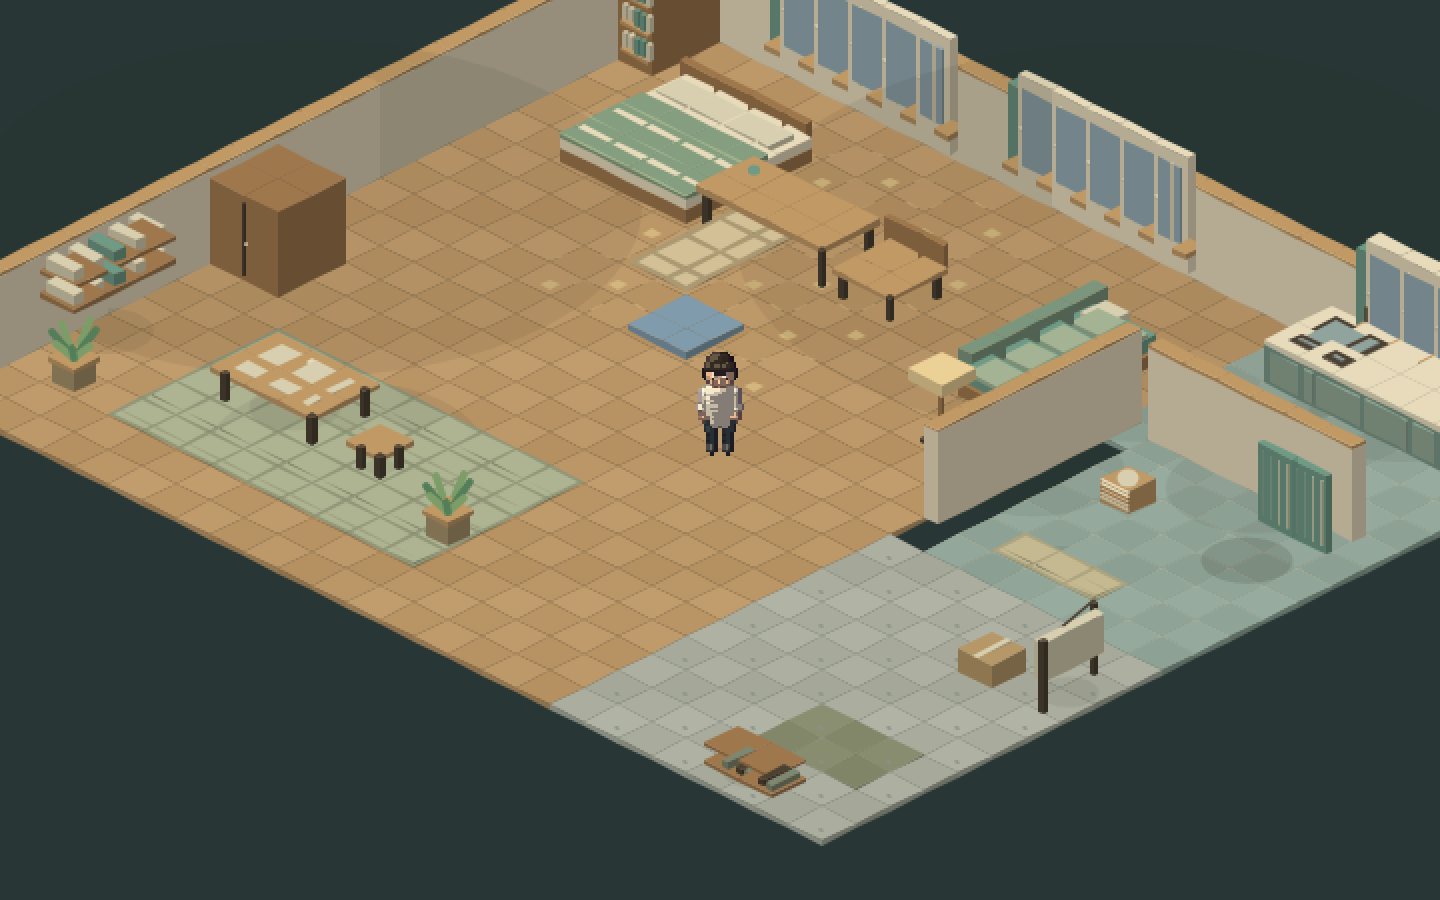
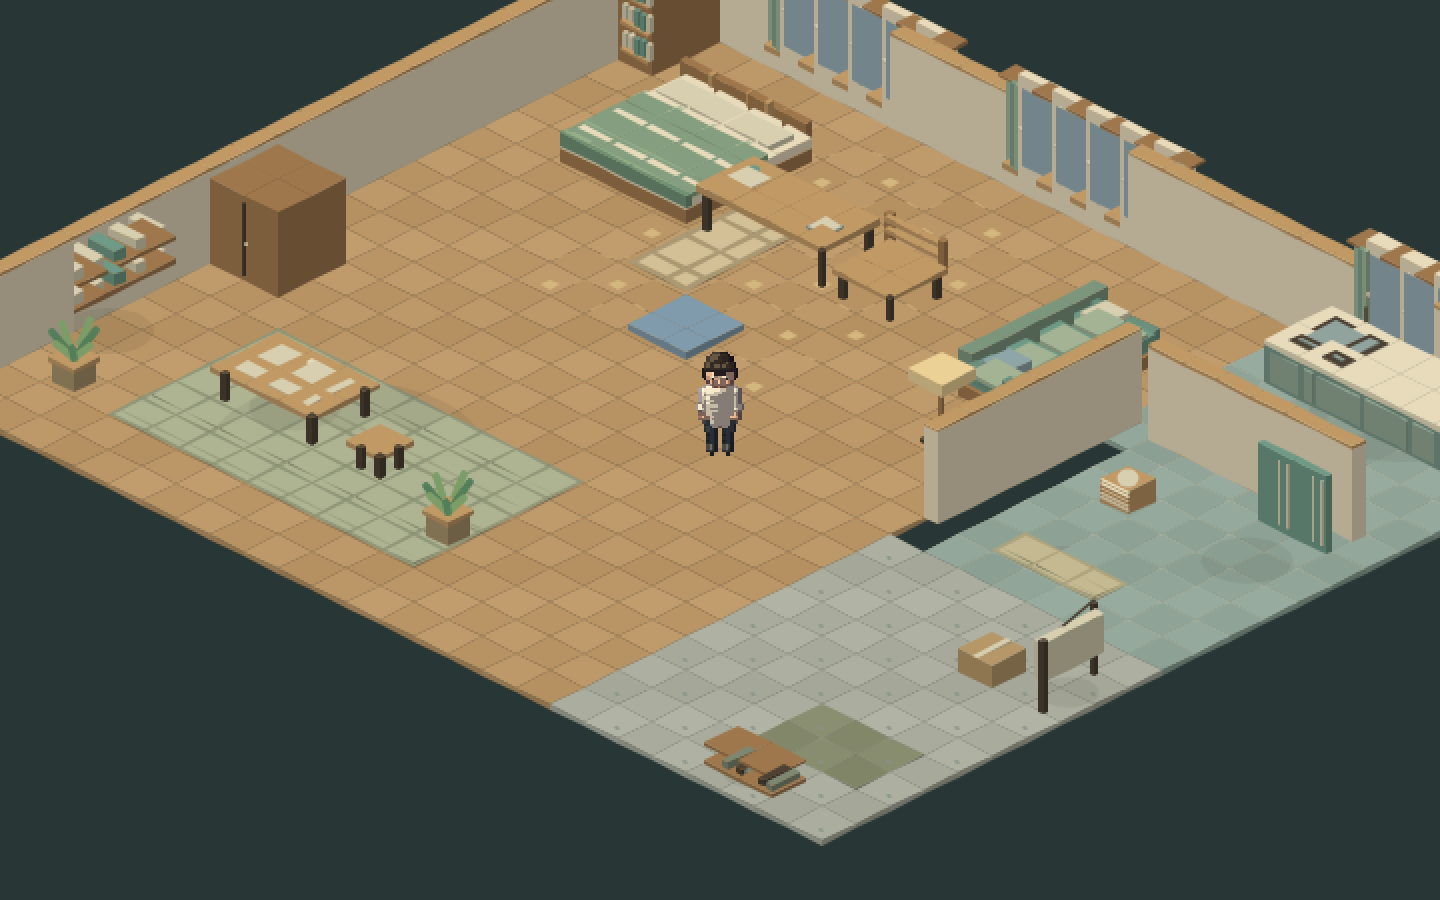
feat(residential): add domestic detail and per-object depth

diff --git a/src/world/art/residential/index.ts b/src/world/art/residential/index.ts
@@ -1,4 +1,4 @@
-import type { DrawMap, WorldRenderView } from '../../render-contract';
+import type { DrawMap, WorldRenderObject, WorldRenderView } from '../../render-contract';
 import type { SceneApi } from '../../../scene/renderer.js';
 import { mapDefinitions } from '../../maps/residential';
 import { furnitureWorldRect } from '../../../features/apartment/world';
@@ -12,6 +12,14 @@ const paleWood: Colour = [193, 153, 101];
 const ink: Colour = [76, 65, 51];
 const jade: Colour = [111, 154, 134];
 const linen: Colour = [215, 207, 176];
+
+function wall(api: ResidentialArtApi, x: number, y: number, width: number, depth: number) {
+  api.box(x, y, 0, x + width, y + depth, 2.7, cream);
+  api.box(x, y, .04, x + width, y + depth, .18, wood);
+  api.box(x, y, 1, x + width, y + depth, 1.055, [203, 185, 149]);
+  api.box(x, y, 2.7, x + width, y + depth, 2.79, paleWood);
+}
+
 
 export function drawResidentialFloor(api: ResidentialArtApi, mapId: string) {
   const map = mapDefinitions.find(m => m.id === mapId);
@@ -60,15 +68,15 @@ export function drawResidentialProps(api: ResidentialArtApi, mapId: string, laye
     switch (prop.kind) {
       case 'wall':
       case 'partition':
-        box(x, y, 0, endX, endY, 2.7, cream);
-        box(x, y, .05, endX, endY, .18, wood);
-        box(x, y, 2.7, endX, endY, 2.79, paleWood);
+        wall(api, x, y, w, h);
         break;
       case 'sofa':
         box(x, y, .1, endX, endY, .5, wood);box(x + .1, y + .1, .5, endX - .1, endY - .1, .9, jade);
         box(x, y, .9, x + .4, endY, 1.5, [124, 150, 126]);
         for (let at = y + .3; at < endY; at += 1) box(x + .4, at, .9, endX - .1, at + .8, 1.03, [164, 179, 147]);
         box(x + .5, y + .15, .95, x + 1.2, y + .9, 1.25, linen);
+        box(x + .5, endY - 1, .95, x + 1.2, endY - .2, 1.27, [143, 166, 168]);
+        for (const at of [y + .08, endY - .35]) box(x + .2, at, .6, endX, at + .25, 1.1, [107, 143, 125]);
         break;
       case 'floor-lamp':
         box(x + .2, y + .2, 0, endX - .2, endY - .2, .12, ink);box(x + .45, y + .45, .12, x + .55, y + .55, 2.1, wood);
@@ -118,7 +126,11 @@ export function drawResidentialProps(api: ResidentialArtApi, mapId: string, laye
         for (let at = x + .2; at < endX - .1; at += 1.1) box(at, endY + .06, 1.1, at + .07, endY + .09, 3.4, linen);
         box(x + .12, endY + .07, 2.15, endX - .12, endY + .1, 2.23, linen);
         box(x - .2, y - .05, .93, endX + .2, endY + .25, 1.1, paleWood);
-        box(x - .1, y + .06, 1.1, x + .2, endY + .2, 3.5, jade);
+        for (const side of [x - .12, endX - .3]) for (let fold = 0; fold < 3; fold++) {
+          const at = side + fold * .12;
+          box(at, endY + .12, 1.05 + (fold % 2) * .07, at + .11, endY + .24, 3.55, fold % 2 ? [127, 158, 139] : [157, 179, 151]);
+        }
+        box(x - .3, y, 3.6, endX + .3, endY + .3, 3.7, wood);
         break;
       case 'bench': case 'tea-table': case 'stool': {
         const height = prop.kind === 'tea-table' ? .8 : .63;
@@ -217,17 +229,35 @@ export function drawApartmentFurniture(api: ResidentialArtApi, state: State) {
     switch (p.id) {
       case 'bed':
         box(x, y, 0, endX, endY, .4, wood); box(x, y, .4, endX, endY, .7, cream);box(x, y, .7, endX, y + .2, 1.2, wood);
-        box(x + .2, y + .35, .7, endX - .2, y + 1.1, .88, linen); box(x, y + 1.3, .7, endX, endY, .83, [132, 158, 127]);
-        for (let at = y + 1.45; at < endY; at += .45) box(x, at, .83, endX, at + .05, .85, [163, 179, 142]);
+        box(x + .2, y + .35, .7, endX - .2, y + 1.1, .88, linen);
+        box(x + .24, y + .39, .88, endX - .24, y + .46, .9, [239, 227, 193]);
+        for (let at = x + .3; at < endX - .2; at += .55) box(at, y + .03, .85, at + .1, y + .2, 1.24, paleWood); box(x, y + 1.3, .7, endX, endY, .83, [132, 158, 127]);
+        box(x + .05, y + 1.25, .83, endX - .05, y + 1.62, .9, [176, 190, 154]);
+        for (let at = y + 1.8; at < endY - .1; at += .6) box(x + .05, at, .83, endX - .05, at + .035, .85, [151, 175, 137]);
+        box(x, endY - .15, .45, endX, endY, .83, [112, 144, 117]);
+        box(x + .2, endY - .2, .83, x + .8, endY, .88, [155, 177, 140]);
         break;
       case 'table':
         for (const px of [x + .1, endX - .24]) for (const py of [y + .1, endY - .24]) box(px, py, 0, px + .14, py + .14, 1.1, ink);
-        box(x, y, 1.1, endX, endY, 1.3, paleWood);sphere(x + .6, y + .6, 1.47, .18, jade, 'solid');
+        box(x, y, 1.1, endX, endY, 1.3, paleWood);
+        box(x + .2, y + .2, 1.3, endX - .2, y + .23, 1.31, [174, 133, 83]);
+        box(x + .25, y + .4, 1.31, x + .95, y + 1.05, 1.33, linen);
+        sphere(x + .6, y + .6, 1.47, .18, jade, 'solid');
+        box(endX - .8, endY - .9, 1.3, endX - .25, endY - .35, 1.36, [133, 155, 154]);
+        box(endX - .77, endY - .87, 1.36, endX - .28, endY - .38, 1.4, linen);
         break;
       case 'chair': case 'repairs.stool':
         for (const px of [x + .1, endX - .24]) for (const py of [y + .1, endY - .24]) box(px, py, 0, px + .14, py + .14, .7, ink);
         box(x, y, .7, endX, endY, .85, paleWood);
-        if (p.id === 'chair') box(x, y, .85, p.rotation ? x + .15 : endX, p.rotation ? endY : y + .15, 1.6, wood);
+        if (p.id === 'chair') {
+          if (p.rotation) {
+            box(x, y, .8, x + .15, y + .15, 1.7, wood);box(x, endY - .15, .8, x + .15, endY, 1.7, wood);
+            for (const z of [1.1, 1.45]) box(x, y, z, x + .15, endY, z + .14, paleWood);
+          } else {
+            box(x, y, .8, x + .15, y + .15, 1.7, wood);box(endX - .15, y, .8, endX, y + .15, 1.7, wood);
+            for (const z of [1.1, 1.45]) box(x, y, z, endX, y + .15, z + .14, paleWood);
+          }
+        }
         break;
       case 'rug':
         box(x, y, .015, endX, endY, .035, [170, 153, 115]);box(x + .15, y + .15, .035, endX - .15, endY - .15, .045, [211, 192, 150]);
@@ -298,19 +328,51 @@ function paintResidential(ctx: CanvasRenderingContext2D, view: WorldRenderView, 
 
 export const drawMap: DrawMap = (ctx, map, view) => {
   if (!mapDefinitions.some(m => m.id === map.id)) return;
-  ctx.save();
-  if (view.pass === 'foreground') ctx.globalAlpha = .38;
-  paintResidential(ctx, view, api => {
-    if (view.pass === 'ground') { drawResidentialFloor(api, map.id); drawResidentialProps(api, map.id, 'ground'); }
-    else if (view.pass === 'objects') drawResidentialProps(api, map.id, 'object');
-    else {
-      const fronts = map.props.filter(p => ['wall', 'partition', 'bookcase', 'wardrobe', 'screen'].includes(p.kind) && p.position.x + p.position.y > view.playerPosition.x + view.playerPosition.y).map(p => p.id);
-      drawResidentialProps(api, map.id, undefined, fronts);
-    }
+  if (view.pass === 'ground') paintResidential(ctx, view, api => {
+    drawResidentialFloor(api, map.id);drawResidentialProps(api, map.id, 'ground');
   });
-  ctx.restore();
+  if (view.pass === 'foreground') paintResidential(ctx, view, api => drawResidentialProps(api, map.id, 'foreground'));
 };
 
+export function renderObjects(map: Parameters<DrawMap>[1], _view: WorldRenderView): WorldRenderObject[] {
+  if (!mapDefinitions.some(m => m.id === map.id)) return [];
+  return map.props.filter(p => p.layer === 'object').flatMap(prop => {
+    if (prop.kind === 'wall' || prop.kind === 'partition') {
+      const parts: WorldRenderObject[] = [];
+      for (let x = prop.position.x; x < prop.position.x + prop.width; x++) for (let y = prop.position.y; y < prop.position.y + prop.height; y++) {
+        const width = Math.min(1, prop.position.x + prop.width - x), height = Math.min(1, prop.position.y + prop.height - y);
+        parts.push({
+          id: parts.length ? `${prop.id}.segment-${parts.length}` : prop.id,
+          position: { x: x + width / 2, y: y + height / 2 },
+          occlusion: { rect: { x, y, width, height }, height: 2.8, fadeWhenPlayerBehind: true },
+          draw(ctx, view) { paintResidential(ctx, view, api => wall(api, x, y, width, height)); },
+        });
+      }
+      return parts;
+    }
+    const position = { x: prop.position.x + prop.width / 2, y: prop.position.y + prop.height / 2 };
+    const occluder = map.occluders.find(o => o.id === prop.id);
+    const tall = ['wardrobe', 'bookcase', 'screen', 'window'].includes(prop.kind);
+    return [{
+      id: prop.id, position,
+      occlusion: occluder ?? (tall ? { rect: { ...prop.position, width: prop.width, height: prop.height }, height: 2.7, fadeWhenPlayerBehind: true } : undefined),
+      draw(ctx, view) { paintResidential(ctx, view, api => drawResidentialProps(api, map.id, undefined, [prop.id])); },
+    }];
+  });
+}
+
 export function drawFurniture(ctx: CanvasRenderingContext2D, state: State, view: WorldRenderView) {
-  if (view.pass === 'objects') paintResidential(ctx, view, api => drawApartmentFurniture(api, state));
+  if (view.pass === 'ground') paintResidential(ctx, view, api => drawApartmentFurniture(api, { ...state, placements: state.placements.filter(p => p.id === 'rug') }));
+}
+
+export function renderFurnitureObjects(state: State): WorldRenderObject[] {
+  return state.placements.filter(p => p.id !== 'rug').map(p => {
+    const rect = furnitureWorldRect(p, state.rugSize);
+    return {
+      id: `apartment.furniture.${p.id}`,
+      position: { x: rect.x + rect.width / 2, y: rect.y + rect.height / 2 },
+      occlusion: p.id === 'bed' || p.id === 'table' ? { rect, height: p.id === 'bed' ? .85 : 1.3, fadeWhenPlayerBehind: false } : undefined,
+      draw(ctx, view) { paintResidential(ctx, view, api => drawApartmentFurniture(api, { ...state, placements: [p] })); },
+    };
+  });
 }

diff --git a/src/world/maps/residential/maps.test.ts b/src/world/maps/residential/maps.test.ts
@@ -1,16 +1,15 @@
 import { describe, expect, it } from 'vitest';
 import { mapDefinitions } from './index';
+import { worldMapSchema } from '../../schema';
+import { canStand as sharedCanStand, findPath } from '../../geometry';
 
 type Point = { x: number; y: number };
 type Rect = Point & { width: number; height: number };
 const inside = (p: Point, r: Rect) => p.x >= r.x && p.y >= r.y && p.x < r.x + r.width && p.y < r.y + r.height;
 
 function reachable(map: typeof mapDefinitions[number]) {
-  const radius = .24;
-  const canStand = (p: Point) => [-radius, radius].every(dx => [-radius, radius].every(dy => {
-    const corner = { x: p.x + dx, y: p.y + dy };
-    return map.walkable.some(r => inside(corner, r)) && !map.colliders.some(c => inside(corner, c.rect));
-  }));
+  const validated = worldMapSchema.parse(map);
+  const canStand = (p: Point) => sharedCanStand(validated, p);
   const start = { x: Math.floor(map.defaultSpawn.x) + .5, y: Math.floor(map.defaultSpawn.y) + .5 };
   const queue = [start];
   const seen = new Set<string>();
@@ -27,13 +26,18 @@ describe('residential routes', () => {
   for (const map of mapDefinitions) {
     it(`${map.id} connects arrivals, door approaches and every authored landmark`, () => {
       const { seen, canStand } = reachable(map);
-      expect(seen.size).toBeGreaterThan(200);
+      const standable = new Set<string>();
+      for (let x = .5; x < map.bounds.width; x++) for (let y = .5; y < map.bounds.height; y++) if (canStand({ x, y })) standable.add(`${x},${y}`);
+      expect(seen).toEqual(standable);
       for (const entrance of map.entrances) {
         expect(canStand(entrance.position), entrance.id).toBe(true);
         expect(map.exits.some(exit => inside(entrance.position, exit.rect)), entrance.id).toBe(false);
         expect(seen.has(`${Math.floor(entrance.position.x) + .5},${Math.floor(entrance.position.y) + .5}`), entrance.id).toBe(true);
       }
-      for (const landmark of map.landmarks) expect(seen.has(`${Math.floor(landmark.position.x) + .5},${Math.floor(landmark.position.y) + .5}`), landmark.id).toBe(true);
+      for (const landmark of map.landmarks) {
+        expect(seen.has(`${Math.floor(landmark.position.x) + .5},${Math.floor(landmark.position.y) + .5}`), landmark.id).toBe(true);
+        expect(findPath(worldMapSchema.parse(map), map.defaultSpawn, landmark.position).length, landmark.id).toBeGreaterThan(0);
+      }
       for (const exit of map.exits) expect([...seen].some(key => {
         const [x, y] = key.split(',').map(Number);
         return inside({ x, y }, exit.rect);

diff --git a/src/world/art/residential/harness.ts b/src/world/art/residential/harness.ts
@@ -1,8 +1,8 @@
-import { drawFurniture, drawMap } from './index';
+import { drawFurniture, drawMap, renderObjects, renderFurnitureObjects } from './index';
 import { mapDefinitions } from '../../maps/residential';
 import { worldMapSchema } from '../../schema';
 import { project } from '../../camera';
-import type { WorldRenderView } from '../../render-contract';
+import type { WorldRenderView, WorldRenderObject } from '../../render-contract';
 import { initialState, reduce } from '../../../features/apartment/rules';
 import { characterFigure, createRenderer } from '../../../scene/renderer.js';
 
@@ -21,8 +21,8 @@ for (const [id, x, y] of [['rug', 2, 1], ['table', 2, 1], ['chair', 4, 1], ['cus
   home = reduce(home, { type: 'select', id }, 1);home = reduce(home, { type: 'place', x, y }, 1);
 }
 drawMap(ctx, map, view);
-view.pass = 'objects';drawMap(ctx, map, view);
 if (map.id === 'apartment') drawFurniture(ctx, home, view);
+view.pass = 'objects';
 const actor = document.createElement('canvas');
 const actorRenderer = createRenderer(actor, {
   bake(api) { api.pix.fill(0);api.zb.fill(-1e9);api.groundZ.fill(-1e9); },
@@ -30,6 +30,9 @@ const actorRenderer = createRenderer(actor, {
 });
 actorRenderer.draw();
 const at = view.project(player), ratio = camera.scale / (18 / Math.SQRT2);
-ctx.drawImage(actor, 130, 80, 100, 80, at.x - 50 * ratio, at.y - 70 * ratio, 100 * ratio, 80 * ratio);
+const objects: WorldRenderObject[] = [...renderObjects(map, view), ...(map.id === 'apartment' ? renderFurnitureObjects(home) : []), {
+  id: 'player', position: player, draw() { ctx.drawImage(actor, 130, 80, 100, 80, at.x - 50 * ratio, at.y - 70 * ratio, 100 * ratio, 80 * ratio); },
+}];
+objects.sort((a, b) => (a.depth ?? a.position.x + a.position.y) - (b.depth ?? b.position.x + b.position.y)).forEach(object => object.draw(ctx, view));
 view.pass = 'foreground';drawMap(ctx, map, view);
 canvas.dataset.ready = 'true';

diff --git a/docs/evidence/0081/integration.md b/docs/evidence/0081/integration.md
@@ -1,0 +1,19 @@
+# Residential integration v1
+
+Map exports are `mapDefinitions` in `src/world/maps/residential/index.ts`. The single registry validates the three payloads. The map graph follows central entrance IDs. All arrivals stand outside trigger rectangles.
+
+Art imports real `DrawMap`, `WorldRenderView` and `WorldRenderObject`. `drawMap` draws ground and foreground only. `renderObjects` returns individually sorted static props. Long walls use segment entries so windows and actors interleave. The first segment retains the authored prop ID to override generic fallback. No owner frame loop or production input handler exists.
+
+The apartment remains the existing saved 6 by 5 grid. `furnitureRegion` maps it to world origin (4,4), two tiles per cell. `furnitureWorldRect` handles rotated footprints. `furnitureColliders(home)` emits committed solid placements only, with IDs `apartment.furniture.<itemId>`. Rugs and unconfirmed drafts do not collide. `furnitureCellAt(worldPoint)` returns the editor cell or null. Static props never occupy this placement region.
+
+Foundation wiring requires these stateful calls.
+
+1. Add `furnitureColliders(state.neighbourhood.apartment)` to the validated apartment map's collision list for movement, pathfinding, portal arrival and save restoration. Keep the original map immutable.
+2. Call `drawFurniture(ctx, home, view)` during the apartment ground pass. It draws saved rugs only.
+3. Add `renderFurnitureObjects(home)` to the apartment compositor's object list. It draws saved solid furniture and gifts individually. Do not call the old whole-furniture objects pass.
+4. After place, store, undo, rug change or restored furniture, retain the world position if safe and exit-connected. Otherwise choose a deterministic position in the exit-connected region. A free cell in an isolated pocket is not safe. The protected strip maps to x=14..16 and y=12..14.
+5. Route world floor taps through `furnitureCellAt`, then dispatch the existing preview/place actions. The existing reducer handles validation, undo and audio notices.
+
+`harness.html` is a static art study using the real production adapters, the existing character rasteriser and an explicit sample furniture layout. It has no travel or save code. Its screenshots are not production movement, editing or reload proof. Production art consumes actual home state via the calls above.
+
+Current tests use the foundation schema, collision function and pathfinder for all entrances, local portal pairs, every landmark and all standable cell centres. Apartment tests preserve current reducer behavior and exercise world-cell round trips, draft separation, rotation, rugs, undo and save validation.

diff --git a/docs/evidence/0081/ledger.md b/docs/evidence/0081/ledger.md
@@ -26,3 +26,11 @@ Foundation should import mapDefinitions from src/world/maps/residential. Publish
 ## Remaining proof
 
 All integrated acceptance remains pending. Need shared schema validation, reciprocal external portals, actual keyboard/touch stair traversal, correct return spawn/camera picking, real furniture editing/undo/save/reload, existing activity regression, inspected desktop/phone scenes, motion recording, console/focus/reduced-motion checks and independent review. No quality PASS.
+
+## Published work and review response
+
+Initial map unit 8770653. Furniture/art unit fedf388. Inspected adapter preview 190a9c0. Source includes the published foundation implementation as ancestry for real schema/render API verification. All residential code writes remain in assigned paths.
+
+Root reviewed the preview and rejected its sparse model-room appearance. Added headboard slats, bedding folds, chair backs, tabletop books and ceramics, sofa cushions, curtain folds, trim, shelves and entry detail outside valid furniture cells. Updated art uses per-object depth entries. Active work continues; no visual acceptance or integrated gameplay PASS.
+
+Focused verification on 2026-11-06 ran 18 tests across residential map routes, apartment reducer and world furniture adapter. TypeScript build passes. Muted cloud Chromium captured desktop and phone views of all three maps with zero page errors. Inspected apartment, foyer and stair captures against the baseline tiny apartment. Static captures remain limited to art proof.
